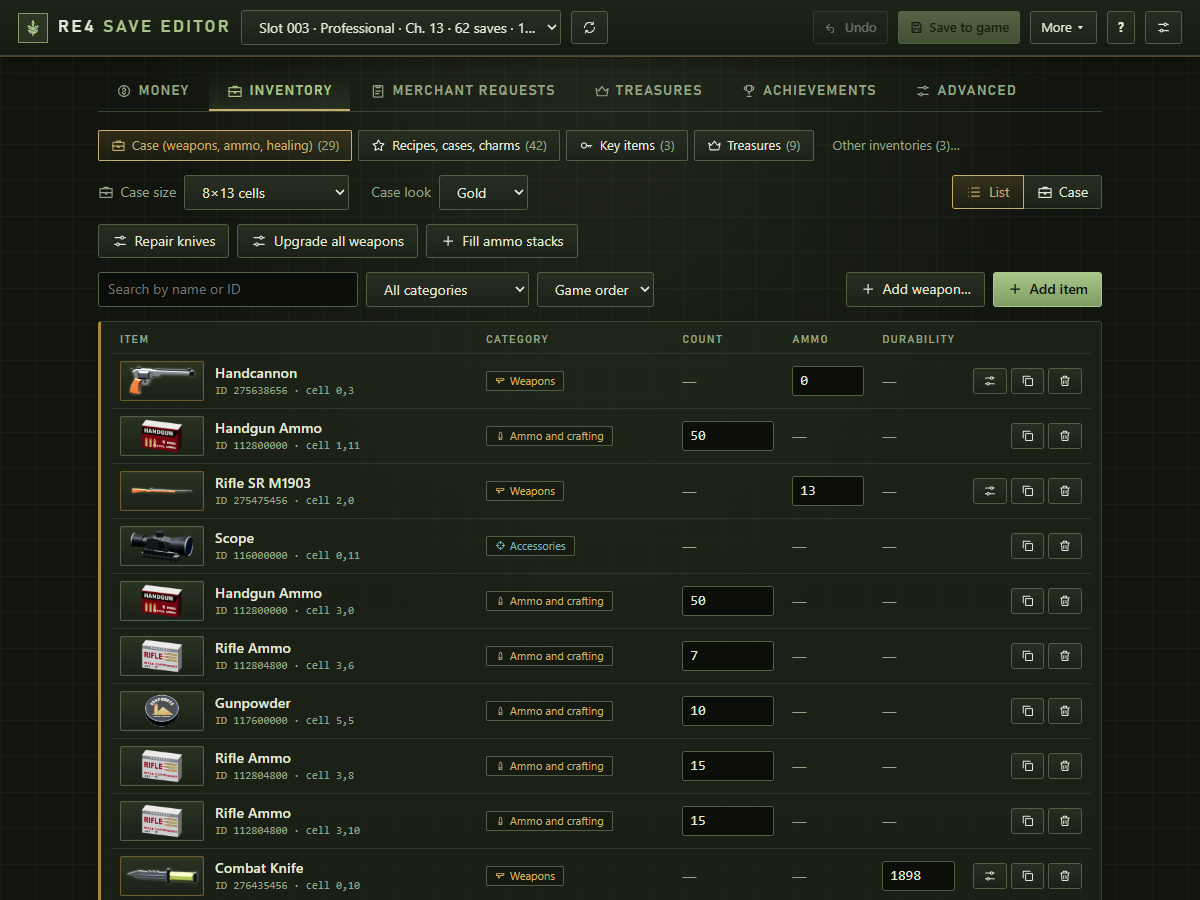
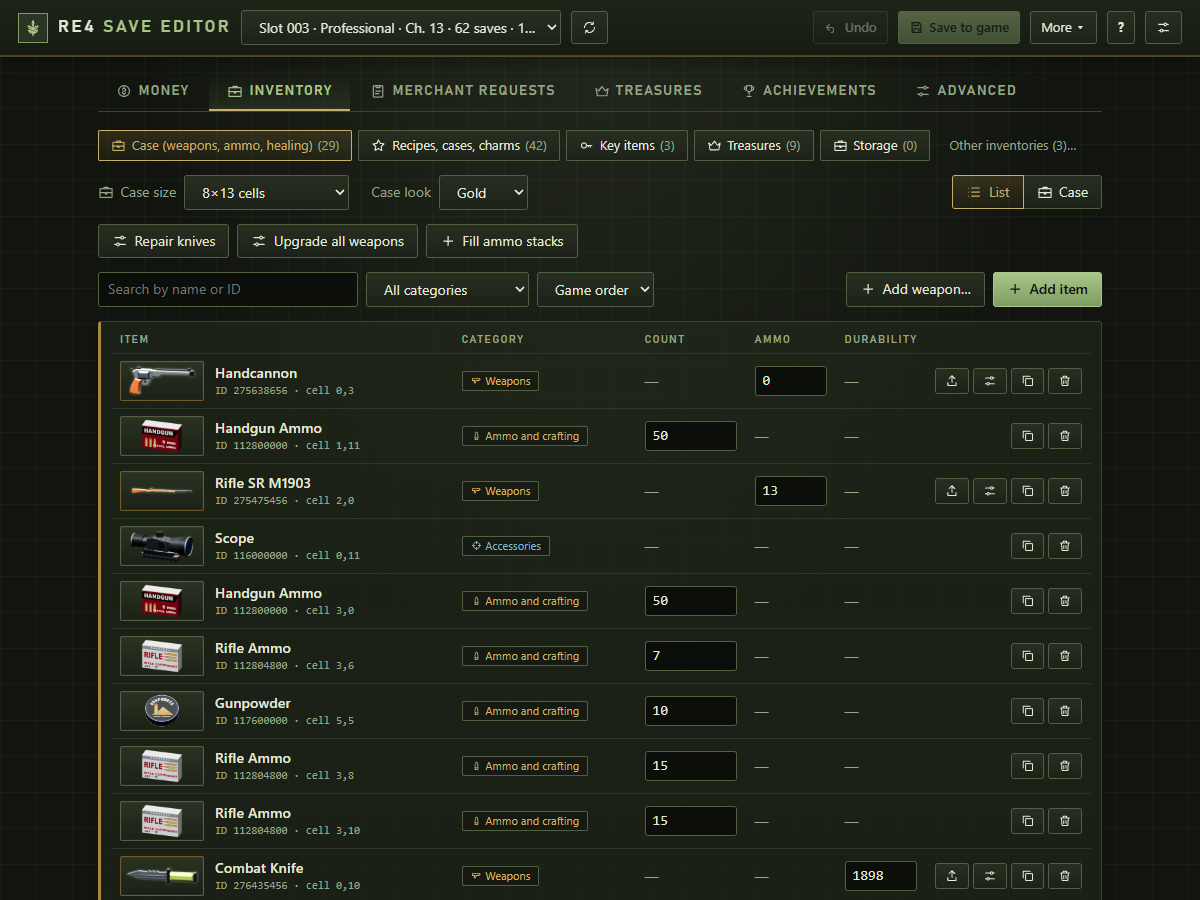
Version 0.9.8 (pre-release)
Short What's new list, release notes with the VirusTotal result, Nexus page text, README and new screenshots (in English).

diff --git a/docs/RELEASE-0.9.8.md b/docs/RELEASE-0.9.8.md
@@ -1,0 +1,65 @@
+# RE4 Save Editor v0.9.8 (pre-release)
+
+An unofficial, local save editor for **Resident Evil 4 (2023 remake), Steam, Windows**. It runs on your own computer and never sends your saves anywhere.
+
+> [!WARNING]
+> **Pre-release. Use at your own risk.** Editing saves can corrupt them. The editor makes a backup before every write and keeps a protected first-run copy of every slot, but keep your own copies too. It is best to close the game before saving, and consider turning off Steam Cloud for RE4.
+
+## What is new in 0.9.8
+
+- **Storage.** The storage of the Merchant is shown in the Inventory tab. Weapons move between it and the case with their upgrades (their quick slots are emptied, as the game does; an equipped weapon must be changed in the game first), they can be upgraded there, and **Add weapon…** offers to put a new weapon straight into the storage when the case is full.
+- **Gems in treasures.** The sockets of the Elegant Crown, Golden Lynx, Elegant Mask, Butterfly Lamp and the other treasures are shown (round or square), and a gem of the right shape can be set in each.
+- **Six more weapons** in **Add weapon…**: W-870, Striker, TMP, CQBR Assault Rifle, Bolt Thrower and the Rocket Launcher, taken from a save where the game itself added them; their sizes were checked in the game.
+- **Eggs** (white, brown, golden) can be added with **Add item**.
+- **Fixed:** a treasure with sockets added from the catalogue took the sockets of another treasure of the save; added items are now marked as obtained, as the game does.
+- **"Incompatible save data"**: if the game has saved a slot since it was started, it refuses that slot after an outside change until you restart the game. The slot itself is fine. The editor's warnings say so now: close the game before writing.
+
+## What was new in 0.9.7
+
+- Item sizes checked in the game, a warning for items that overlap, a mini case on every slot card, a refresh button.
+
+## What you can do
+
+- **Money**: Pesetas and Spinel.
+- **Attaché case**: add, copy and delete items from a catalogue of ~220, change counts, ammo and durability, change the **case size** and the **case look** (Silver, Black, Leather, Gold, Classic).
+- **Case view**: your case lying down like in the game, with original 3D-rendered icons for every item and weapon. Drag items to move them, rotate them, or press **Sort** to tidy the case.
+- **Weapons**: add a new one or copy one from another slot; upgrade levels 0-4, **Full upgrade**, **Upgrade all weapons** and a switch for the exclusive upgrade.
+- **Merchant requests**, **treasures**, **achievements** (read-only hints) and an **Advanced** raw field view (asks for a one-time confirmation).
+- **Safety**: a "game is running" warning, a summary of every change before writing, writes that are decrypted back and compared before they replace the file, a backup manager and restore, copying one slot into another.
+
+## Download
+
+**`RE4SaveEditor-0.9.8-windows-allinone.zip`** (38.7 MB): extract it anywhere and double-click `Start RE4 Save Editor.js`. Nothing to install: Node.js is inside and the save encryption is built in. If Windows asks whether to run the script, choose Open / Run; if `Start RE4 Save Editor.js` opens in a text editor, use "Open with > Microsoft Windows Based Script Host".
+
+SHA-256:
+
+```text
+a424e6143cd571242bbd3ad8b4297ebf130118b5fc43077e020d2dfb1806aae1  RE4SaveEditor-0.9.8-windows-allinone.zip
+```
+
+A smaller script-only package (needs [Node.js](https://nodejs.org) 20+ installed) is published on Nexus Mods. To build from source: `git clone`, run `build.bat` once, then `start.bat`.
+
+**VirusTotal:** [1 engine](https://www.virustotal.com/gui/file/a424e6143cd571242bbd3ad8b4297ebf130118b5fc43077e020d2dfb1806aae1) flags this archive (a generic heuristic for scripts, as in earlier versions; a false positive in our opinion); the other engines report it clean. The number can change when the file is re-scanned: the link shows the current result.
+
+## Quick start
+
+1. Preferably close the game (writing from the main menu and then loading the slot also works).
+2. Start the editor, pick a slot on the start screen, edit, press **Save to game**. A summary of the changes is shown first.
+3. **More > Restore from backup...** undoes a write at any time.
+
+The save folder (`<Steam>/userdata/<account>/2050650/remote/win64_save`) is found automatically; use the gear button if you have several Steam accounts.
+
+## Known limitations
+
+- Item sizes in the case are taken from real layouts; a few items may still look different in the game.
+- Weapon upgrade levels are limited to 0-4 (the highest seen in real saves). Some weapons have fewer upgrades; the editor does not know which.
+- Not every weapon can be added as new yet: the Broken Butterfly, the special rocket launchers and some knives are not in the list.
+- Names of merchant requests are not stored in the save; the mapping is partly inferred.
+- Tested on a limited set of saves and one game version; a game patch may change the save format (the editor then disables structural edits and says so).
+- Windows and the Steam version only.
+
+## Feedback
+
+Please open an issue and describe what happened (the editor's **Copy diagnostics** button gives a report without personal data). Please **do not attach your save files** to an issue: a save is tied to your Steam account number (not your password or e-mail), which would become public.
+
+Full list of changes: [CHANGELOG.md](https://github.com/distrix11/RE4-Remake-Save-Editor/blob/main/CHANGELOG.md).

diff --git a/README.md b/README.md
@@ -13,17 +13,17 @@ It runs on your own computer, opens in your browser or its own window and never 
 > Editing saves can corrupt them. The editor makes a backup before every write, but keep your own copies too.
 
 > [!NOTE]
-> This is a pre-release (0.9.7). It has been tested on a limited set of saves; please report what you find.
+> This is a pre-release (0.9.8). It has been tested on a limited set of saves; please report what you find.
 
-**New in 0.9.7:** item sizes checked in the game (some items could be put on top of others and the game deleted them), a warning for items that overlap, a mini case on every slot card, a refresh button. [Release notes](https://github.com/distrix11/RE4-Remake-Save-Editor/releases/tag/v0.9.7)
+**New in 0.9.8:** the storage of the Merchant (move weapons between it and the case, upgrade them there), gems in treasures, six more weapons in Add weapon (W-870, Striker, TMP, CQBR, Bolt Thrower, Rocket Launcher), eggs. [Release notes](https://github.com/distrix11/RE4-Remake-Save-Editor/releases/tag/v0.9.8)
 
 ## Features
 
 - <img src="icons/items/gold_bar.png" height="26" align="top"> **Money**: Pesetas and Spinel.
 - <img src="icons/items/case_gold.png" height="26" align="top"> **Inventory** (attaché case, key items, treasures, recipes/charms):
   search, category filter, sorting; edit counts, ammo, durability and item IDs;
-  **add** items from a catalog of ~220 items (grenades included), **duplicate**, **delete**;
-  **case size** selector; **grenades** can be added too; **Repair knives** and **Fill ammo stacks** buttons; a **Case view** (the case lying down, like in the game) where items are moved by dragging and rotated; **weapon upgrades** (levels 0-4, a **Full upgrade** button and the exclusive upgrade switch), **Add weapon…** (a new weapon from a built-in list, or a copy from another of your slots, with its picture and whether it fits the case now) and a **Sort** button that tidies the case; **Undo** (button or Ctrl+Z) takes back the last changes one by one, **Ctrl+S** saves to the game (after the summary), **Upgrade all weapons** fully upgrades the whole case, and the start screen shows a card for every slot.
+  **add** items from a catalog of ~220 items (grenades and eggs included, gems in the sockets of treasures), **duplicate**, **delete**;
+  **case size** selector; **grenades** can be added too; **Repair knives** and **Fill ammo stacks** buttons; a **Case view** (the case lying down, like in the game) where items are moved by dragging and rotated; **weapon upgrades** (levels 0-4, a **Full upgrade** button and the exclusive upgrade switch), **Add weapon…** (a new weapon from a built-in list, or a copy from another of your slots, with its picture and whether it fits the case now) and a **Sort** button that tidies the case; a **Storage** tab (the storage of the Merchant: move weapons between it and the case, upgrade them there); **Undo** (button or Ctrl+Z) takes back the last changes one by one, **Ctrl+S** saves to the game (after the summary), **Upgrade all weapons** fully upgrades the whole case, and the start screen shows a card for every slot.
 - <img src="icons/items/recipe.png" height="26" align="top"> **Merchant requests**: shows the goals of every request and can mark the goals as completed.
 - <img src="icons/items/crown.png" height="26" align="top"> **Treasures**: which treasure types you have obtained and how many world pickups are recorded per area (approximate).
 - <img src="icons/items/token_gold.png" height="26" align="top"> **Achievements**: reads your local Steam achievement cache (read-only) and shows progress hints computed from the save.
@@ -114,7 +114,7 @@ alignment recomputed. Nothing is written to the game folder without a backup.
 
 - Item sizes in the case are **estimates** inferred from real layouts; items may look different in game.
 - Weapon upgrade levels are limited to 0-4 (the highest seen in real saves). Some weapons have fewer upgrades; the editor does not know which.
-- **Add weapon…** offers new weapons (no upgrades, empty magazine) only for the weapons in its built-in list: not for the main-game W-870, Striker, TMP, CQBR, Broken Butterfly, Bolt Thrower, the rocket launchers and some knives. A weapon from another of your slots of the same campaign can be copied too. The game deletes weapons of the other campaign, bonus or DLC weapons you have not unlocked (for example the Chicago Sweeper), weapons that do not fit the case, and may delete a second copy of one you already carry. The exclusive upgrade is a 0/1 switch and needs every other upgrade at 4.
+- **Add weapon…** offers new weapons (no upgrades, empty magazine) only for the weapons in its built-in list (21 for the main game, 7 for Separate Ways): not yet for the Broken Butterfly, the special rocket launchers and some knives. A weapon from another of your slots of the same campaign can be copied too. The game deletes weapons of the other campaign, bonus or DLC weapons you have not unlocked (for example the Chicago Sweeper), weapons that do not fit the case, and may delete a second copy of one you already carry. The exclusive upgrade is a 0/1 switch and needs every other upgrade at 4.
 - Names of merchant requests are not stored in the save; the mapping is partly inferred and marked in the UI.
 - The item catalog is community-compiled and may contain mistakes.
 - Tested on a limited set of saves and one game version (see `docs/TESTING.md` for the in-game checklist). Game patches may change the save format.

diff --git a/CHANGELOG.md b/CHANGELOG.md
@@ -1,6 +1,13 @@
 # Changelog
 
-## Unreleased (for 0.9.8)
+## 0.9.8 (pre-release)
+- **Storage**: the storage of the Merchant is shown; weapons move between it and the case, with their upgrades, and can be upgraded there.
+- **Gems**: set gems in the sockets of the crown, the lynx, the mask and the other treasures.
+- **Six more weapons** in Add weapon: W-870, Striker, TMP, CQBR, Bolt Thrower, Rocket Launcher.
+- **Eggs** can be added; treasures with sockets get their own sockets.
+- "Incompatible save data" explained: the game shows it for a slot it saved in the same run after an edit; restart the game.
+
+### Details
 - **Storage**: the Inventory tab shows the storage of the Merchant, with the upgrades of every weapon (they can be changed there too); weapons move between the case and the storage (with their upgrades), and **Add weapon…** offers to put a new weapon into the storage when the case is full.
 - Found in the game: if the game has saved a slot since it was started, it shows **"incompatible save data"** for that slot after the editor changes it, until the game is restarted; the slot itself is fine. The "game is running" warnings say so now.
 - **Gems in treasures**: the Treasures list shows the sockets of every treasure that has them (round or square), and a gem of the right shape can be set in each.
